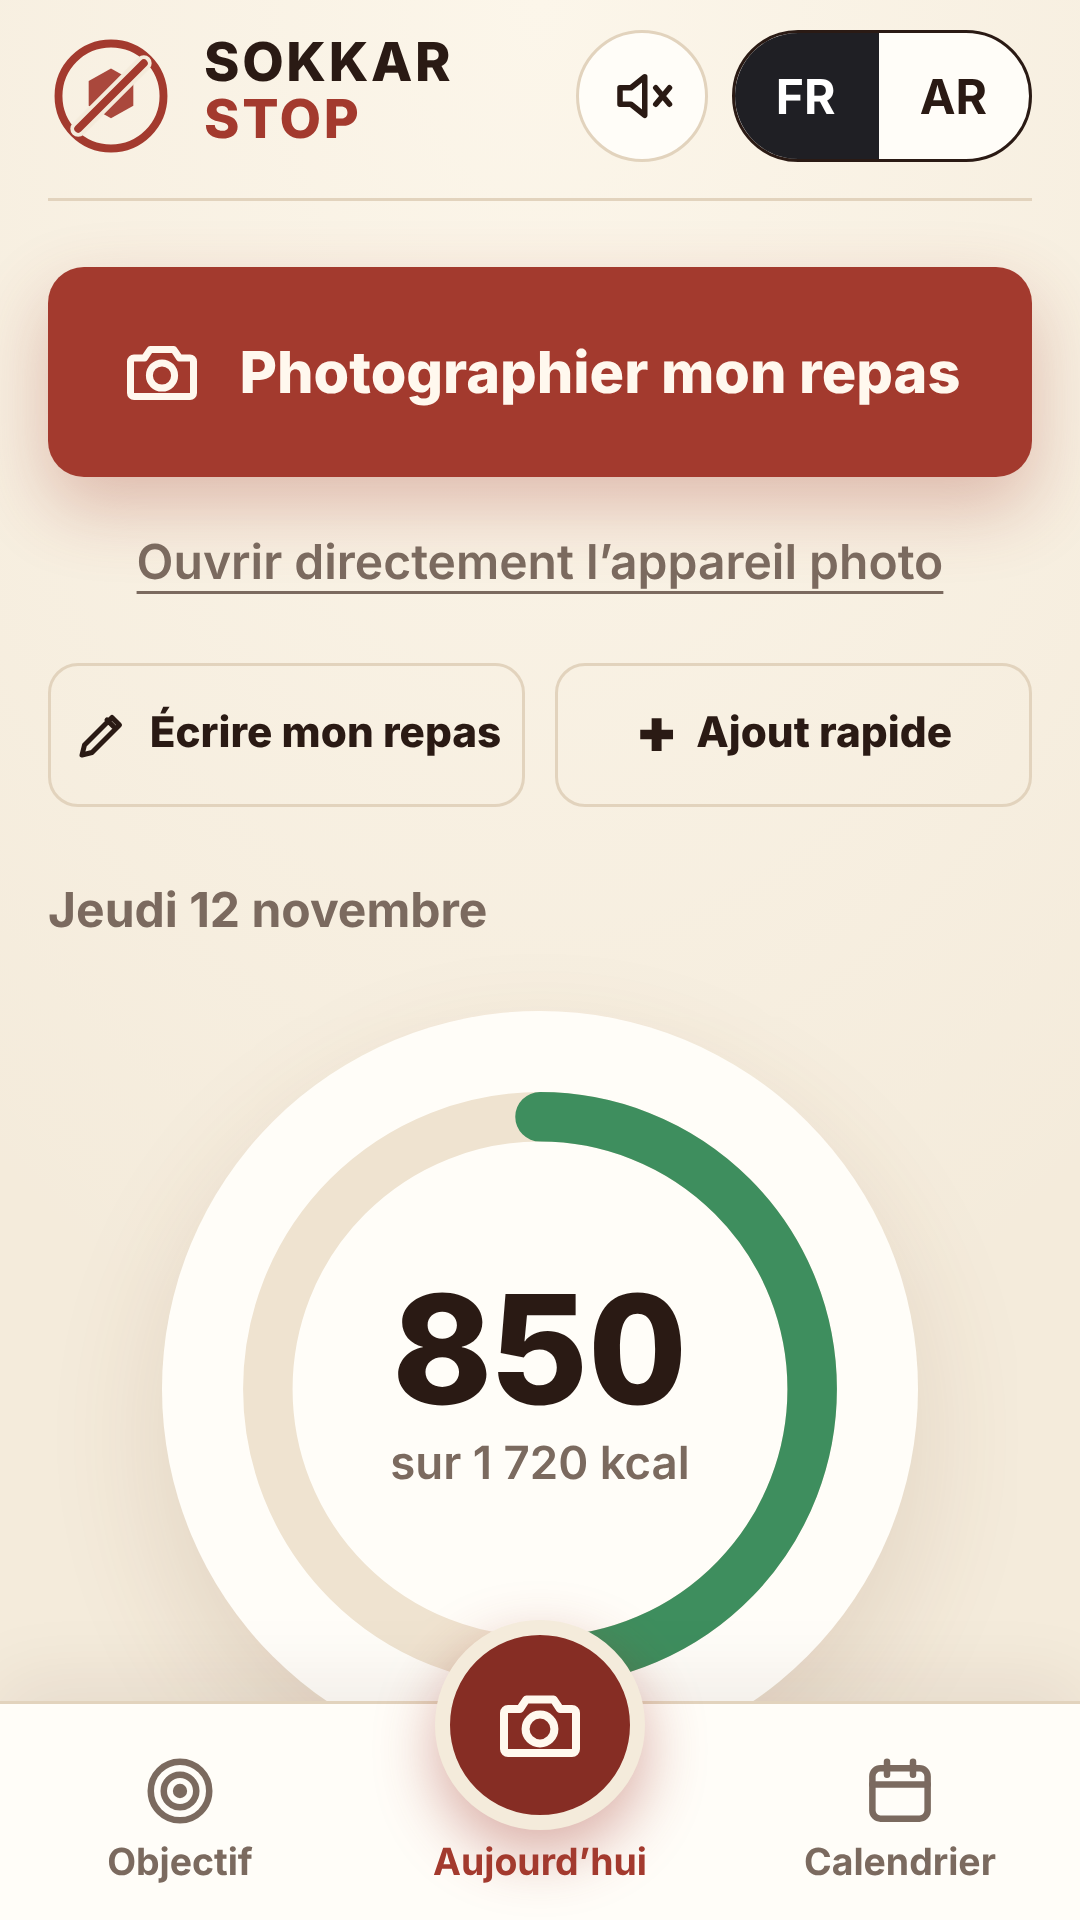
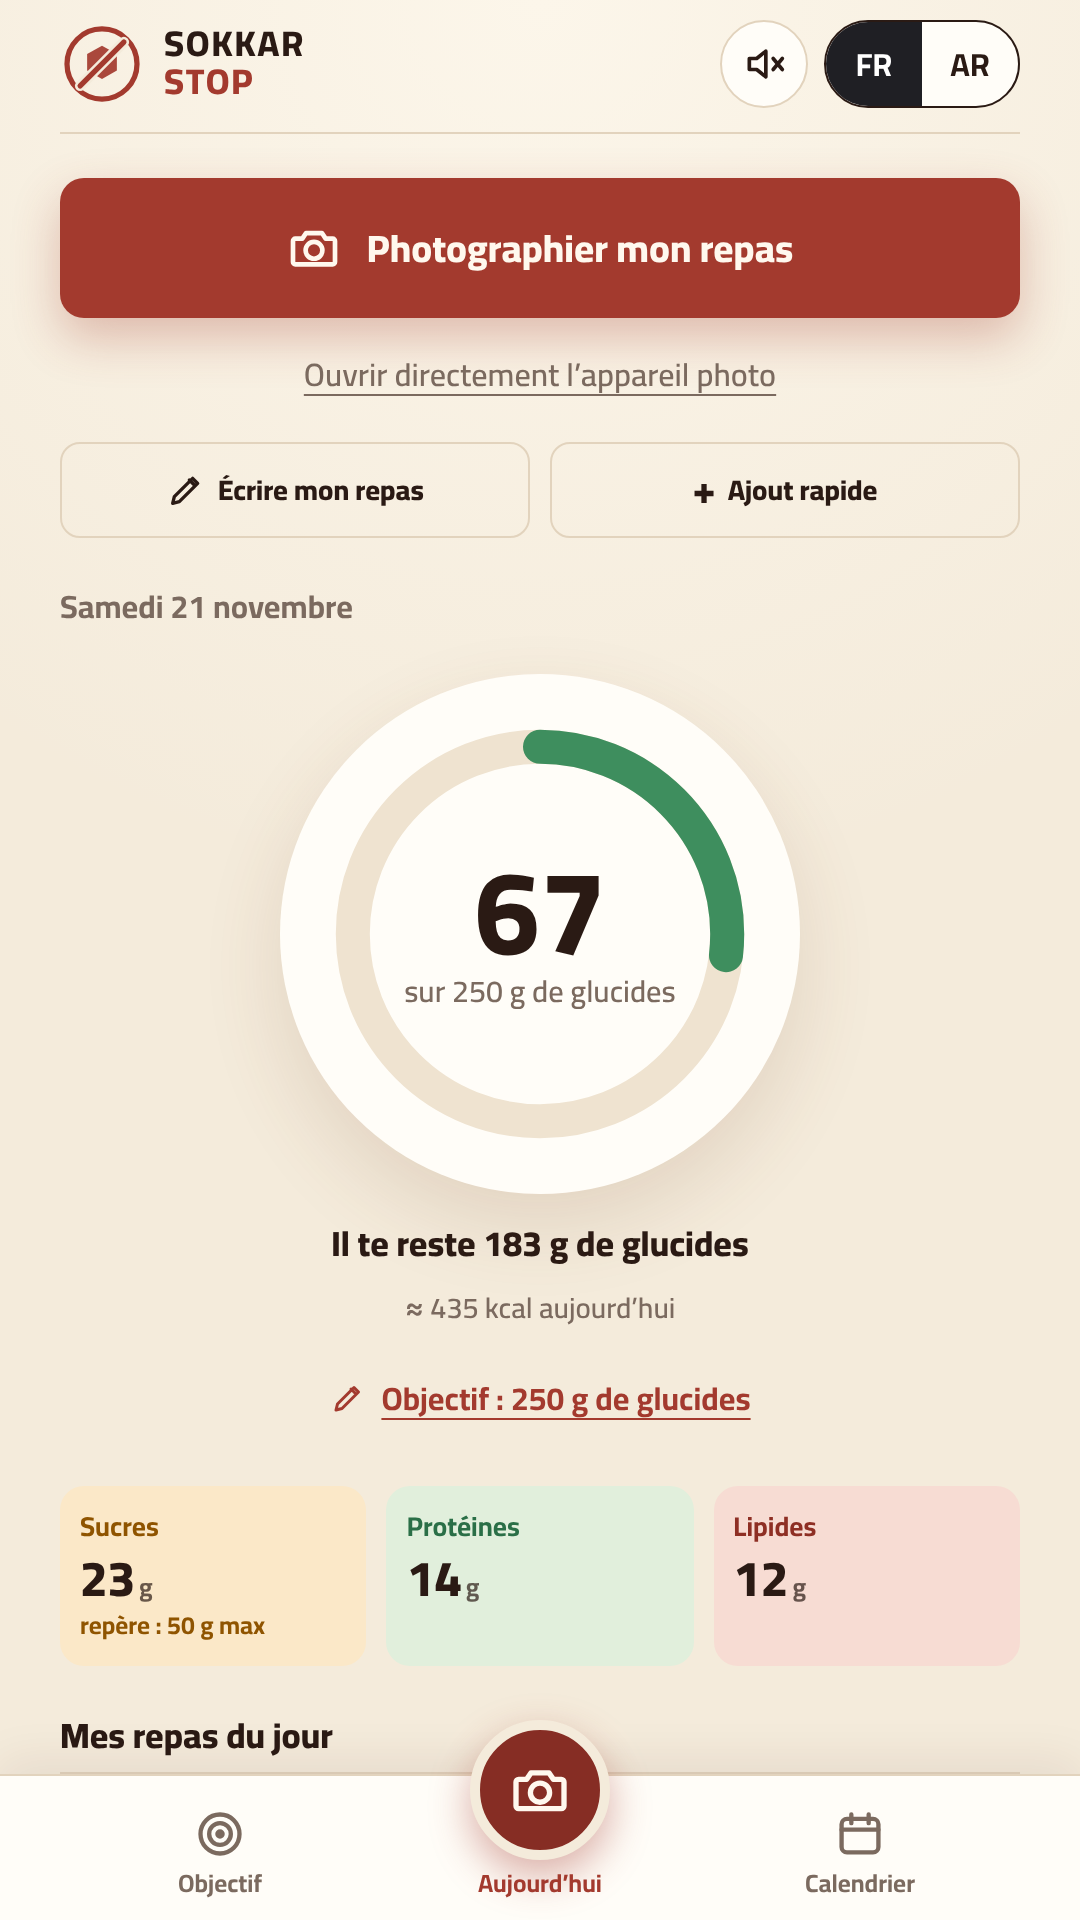
Dossier stores : captures et textes version glucides, guide App Store
Claude-Session: https://claude.ai/code/session_01C4s4UNgnPueMbvj7QuFXT7

diff --git a/play-store/GUIDE.md b/play-store/GUIDE.md
@@ -11,7 +11,7 @@ L'appli est une PWA (https://sokkarstop.site/app/). On la met sur Google Play so
 | Suppression de compte dans l'appli | Objectif → Compte → « Supprimer mon compte » |
 | Icône 512×512 | `app/icons/icon-512.png` |
 | Image de présentation 1024×500 | `play-store/feature-graphic-1024x500.png` |
-| Captures d'écran téléphone 1080×1920 | `play-store/screenshots/` |
+| Captures d'écran téléphone 1080×1920 (6, version glucides, refaites le 21/11/2026) | `play-store/screenshots/` |
 | `.nojekyll` (pour que `/.well-known/` soit servi par GitHub Pages) | racine du dépôt |
 | Modèle de `assetlinks.json` | `play-store/assetlinks.template.json` |
 
@@ -58,26 +58,26 @@ Sans cela, l'appli affiche une barre d'adresse Chrome au lieu de s'ouvrir en ple
 
 **Titre (30 car. max)** : `Sokkar Stop App`
 
-**Description courte (80 car. max)** : `Compte tes calories en photo ou en texte. Objectifs, historique, tendances.`
+**Description courte (80 car. max)** : `Compte tes glucides en photo. Alarme quand tu dépasses ta limite du jour.`
 
 **Description complète (FR)** :
 
-> Sokkar Stop App compte tes calories sans prise de tête.
+> Sokkar Stop App compte tes glucides sans prise de tête.
 >
-> • Photographie ton repas : l'appli estime les calories, les glucides, les protéines et les lipides.
-> • Ou écris-le en quelques mots, ou ajoute-le rapidement avec son nombre de calories.
-> • Corrige chaque aliment (nom, calories) et choisis ta portion : ¼, ½, 1, 1½ ou 2.
-> • Calcule ton objectif de calories du jour d'après ton profil.
-> • Alarme Sokkar Stop quand un repas te ferait dépasser ton objectif.
-> • Calendrier avec un visage par jour, détail des repas, série de jours réussis.
-> • Tendances sur 7 et 30 jours : moyenne de calories, glucides, protéines, lipides et courbe de poids.
+> • Photographie ton repas : l'appli estime les glucides, les calories, les protéines et les lipides.
+> • Ou écris-le en quelques mots, ou ajoute-le rapidement avec son nombre de grammes de glucides.
+> • Corrige chaque aliment (nom, glucides) et choisis ta portion : ¼, ½, 1, 1½ ou 2.
+> • Calcule ton objectif de glucides du jour d'après ton profil, dans les repères de l'OMS (45 à 75 % de l'énergie).
+> • Alarme Sokkar Stop quand un repas te ferait dépasser ton objectif de glucides.
+> • Repère pour les sucres, calendrier avec un visage par jour, détail des repas, série de jours réussis.
+> • Tendances sur 7 et 30 jours : moyenne de glucides, calories, protéines, lipides et courbe de poids.
 > • Rappels de repas (facultatifs).
 > • Compte gratuit (e-mail + mot de passe) pour retrouver ton historique sur un autre téléphone.
 > • Français et arabe.
 >
 > Avec chaque flacon Sokkar Stop, 1 mois d'accès offert.
 >
-> Les calories sont des estimations indicatives. L'appli ne remplace pas l'avis d'un médecin ou d'un diététicien.
+> Les valeurs sont des estimations indicatives. L'appli ne remplace pas l'avis d'un médecin ou d'un diététicien, en particulier en cas de diabète.
 
 **Description complète (AR)** : ajoute une traduction arabe de la fiche (Fiche Play Store → Gérer les traductions). Reprends le même texte.
 
@@ -93,7 +93,7 @@ Ce sont des propositions fondées sur ce que fait réellement l'appli ; relis ch
 - **Applications de santé** : l'appli suit la nutrition et le poids : coche la déclaration correspondante, précise que ce n'est **pas un dispositif médical** et ne fait pas de diagnostic.
 - **Suppression de compte** : la console demande une URL : `https://sokkarstop.site/app/suppression-compte.html` (suppression aussi possible dans l'appli).
 - **Sécurité des données** (réponses proposées) :
-  - Données collectées : **adresse e-mail** (compte, facultatif) ; **informations de santé et de forme** (poids, repas, calories ; sauvegardées seulement si le compte est créé) ; **photos** (repas et photo « avant », envoyées pour traitement par IA, non conservées) ; **identifiant d'appareil** (aléatoire, limitation des abus et activation du code).
+  - Données collectées : **adresse e-mail** (compte, facultatif) ; **informations de santé et de forme** (poids, repas, glucides, calories ; sauvegardées seulement si le compte est créé) ; **photos** (repas et photo « avant », envoyées pour traitement par IA, non conservées) ; **identifiant d'appareil** (aléatoire, limitation des abus et activation du code).
   - Finalité : fonctionnement de l'appli ; gestion du compte. Pas de publicité, pas d'analyse marketing.
   - Partage : les fournisseurs techniques (Cloudflare, Google Gemini) traitent les données pour notre compte ; vérifie dans l'aide de la console si ce cas est à déclarer comme « partage ».
   - Chiffrement en transit : **oui** (HTTPS). Suppression possible par l'utilisateur : **oui**.

diff --git a/play-store/APPLE.md b/play-store/APPLE.md
@@ -1,0 +1,48 @@
+# Publier « Sokkar Stop App » sur l'App Store (iPhone)
+
+À lire d'abord : **Apple n'accepte pas une PWA telle quelle**. Il faut un vrai paquet iOS. Et Apple refuse souvent les « simples sites dans une coquille » (règle 4.2, fonctionnalités minimales) : l'appli doit apporter plus qu'un site (ici : photo du repas, rappels, alarme sonore, mode hors-ligne, comptes). Prévois un premier refus possible et une correction.
+
+## 1. Ce que tu dois faire toi-même (paiement et identité)
+
+1. **Apple Developer Program** : https://developer.apple.com/programs/enroll/ . **99 USD par an**, carte bancaire internationale. Il faut un identifiant Apple (Apple ID) avec double authentification.
+2. Type de compte : **Individuel** (rapide, ton nom apparaît comme éditeur) ou **Organisation** (numéro D-U-N-S et site web, plus long, mais le nom de ta société apparaît).
+3. Vérification d'identité : pièce d'identité, parfois un appel d'Apple. Compte une à deux semaines.
+
+## 2. Il faut un Mac (ou un service de build dans le cloud)
+
+Un paquet iOS se compile avec Xcode, qui ne tourne que sur Mac. Deux solutions :
+- Un Mac à toi (ou emprunté) avec Xcode 16 ou plus récent.
+- Sans Mac : un service de build cloud (Codemagic, Expo EAS, Bitrise). Je peux préparer le projet pour ça.
+
+## 3. Fabriquer l'appli
+
+On enveloppe l'appli web dans **Capacitor** (gratuit) :
+1. Identifiant de paquet : `site.sokkarstop.app` (le même que sur Android).
+2. L'appli pointe vers `https://sokkarstop.site/app/` : une mise à jour du site est visible tout de suite. Apple tolère cela tant que l'appli ne change pas de nature.
+3. Plugins à ajouter pour passer la règle 4.2 : notifications locales (rappels de repas), appareil photo, retour haptique.
+4. Les notifications « push » web ne marchent pas dans une coquille iOS : il faut les notifications natives (APNs). Les rappels actuels viennent du serveur ; à adapter dans un second temps.
+
+## 4. App Store Connect
+
+1. https://appstoreconnect.apple.com : **Mes apps, puis Nouvelle app**. Nom : « Sokkar Stop App », langue principale : français, identifiant `site.sokkarstop.app`.
+2. **Captures d'écran** : Apple exige les tailles iPhone 6,9" (1320×2868) et 6,5" (1284×2778). Les captures de `play-store/screenshots/` servent de base ; je peux les régénérer aux bonnes tailles.
+3. Icône 1024×1024 sans transparence (à partir de `app/icons/icon-512.png`).
+4. **Confidentialité** : URL `https://sokkarstop.site/app/confidentialite.html`, plus le questionnaire « étiquettes de confidentialité » (e-mail, données de santé et forme, photos, identifiant d'appareil).
+5. **Suppression de compte dans l'appli** : obligatoire pour Apple, déjà présente (Objectif, Compte).
+6. **Classification d'âge** : 17+ à cause de la santé et de la nutrition (à confirmer dans le questionnaire).
+7. **Compte de démonstration** pour le relecteur : si `REQUIRE_CODE` est actif, fournis un code à 4 chiffres de test dans « Informations de connexion », sinon l'appli est bloquée pour lui.
+
+## 5. Textes de la fiche (français)
+
+- **Nom** (30 car.) : `Sokkar Stop App`
+- **Sous-titre** (30 car.) : `Compte tes glucides en photo`
+- **Mots-clés** (100 car.) : `glucides,sucre,calories,régime,nutrition,diabète,photo repas,alarme,Tunisie`
+- **Texte promotionnel** : `Photographie ton repas, vois tes glucides du jour et laisse l'alarme Sokkar Stop te dire stop.`
+- **Description** : reprendre la description de `GUIDE.md` (section 6), sans la phrase sur le flacon si Apple la juge commerciale.
+- **Avertissement santé** à garder : estimations indicatives, ne remplace pas un médecin ou un diététicien.
+
+## 6. Points de vigilance
+
+- **Santé** : Apple regarde de près les applis de nutrition. Pas de promesse de perte de poids garantie, pas de diagnostic. L'image « avant / après » est une simulation : garde la mention.
+- **Paiement** : si un jour l'abonnement payant se fait dans l'appli, Apple impose son achat intégré (commission 15 à 30 %). Un code offert avec un produit physique (le flacon) est accepté.
+- **Délais** : revue Apple 1 à 3 jours en général ; prévoir 2 à 4 semaines au total avec le compte.
